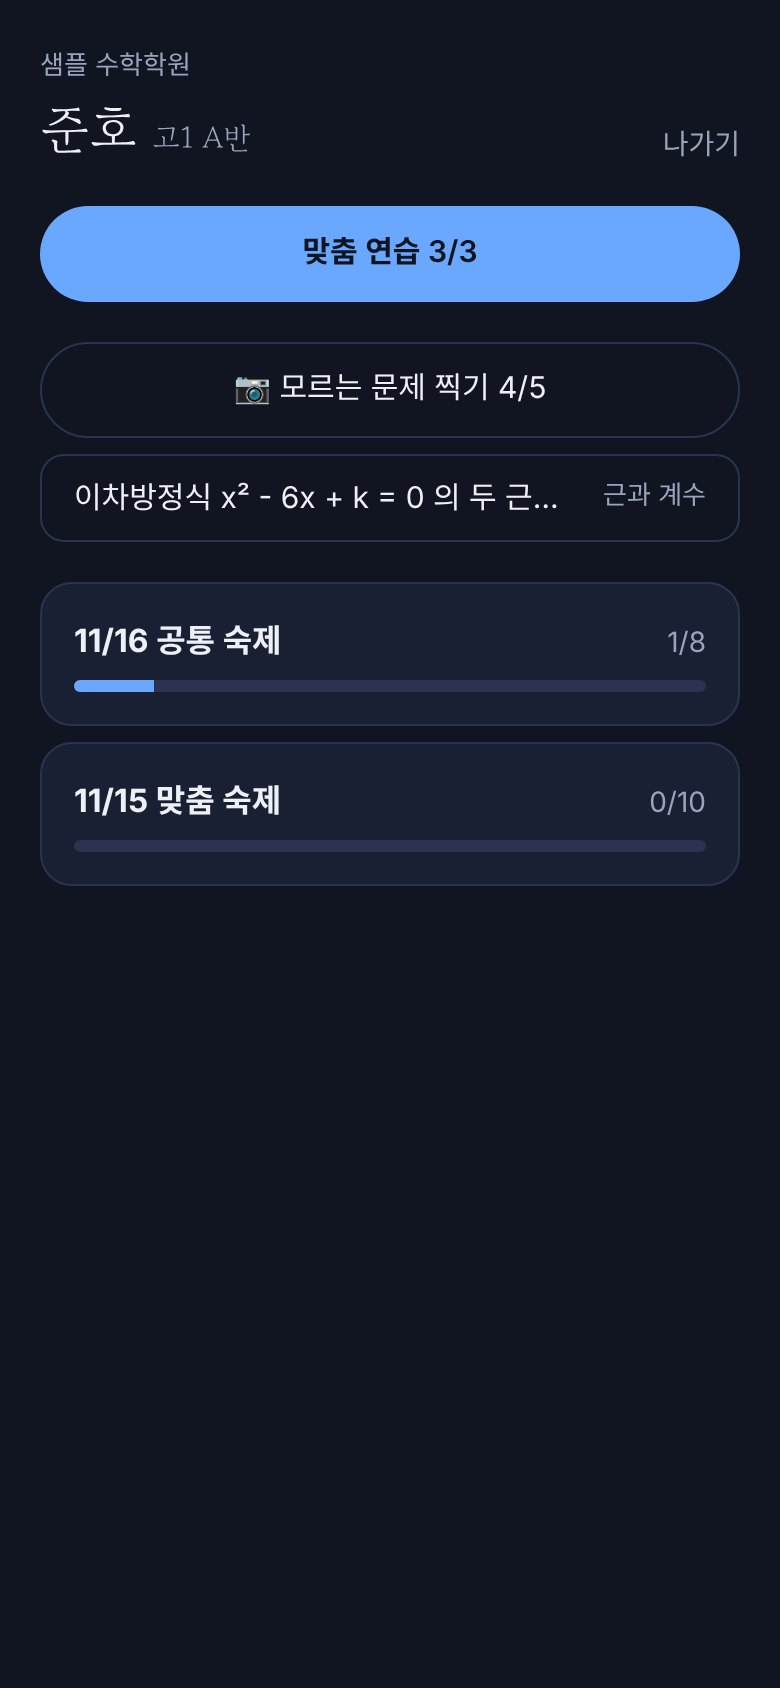
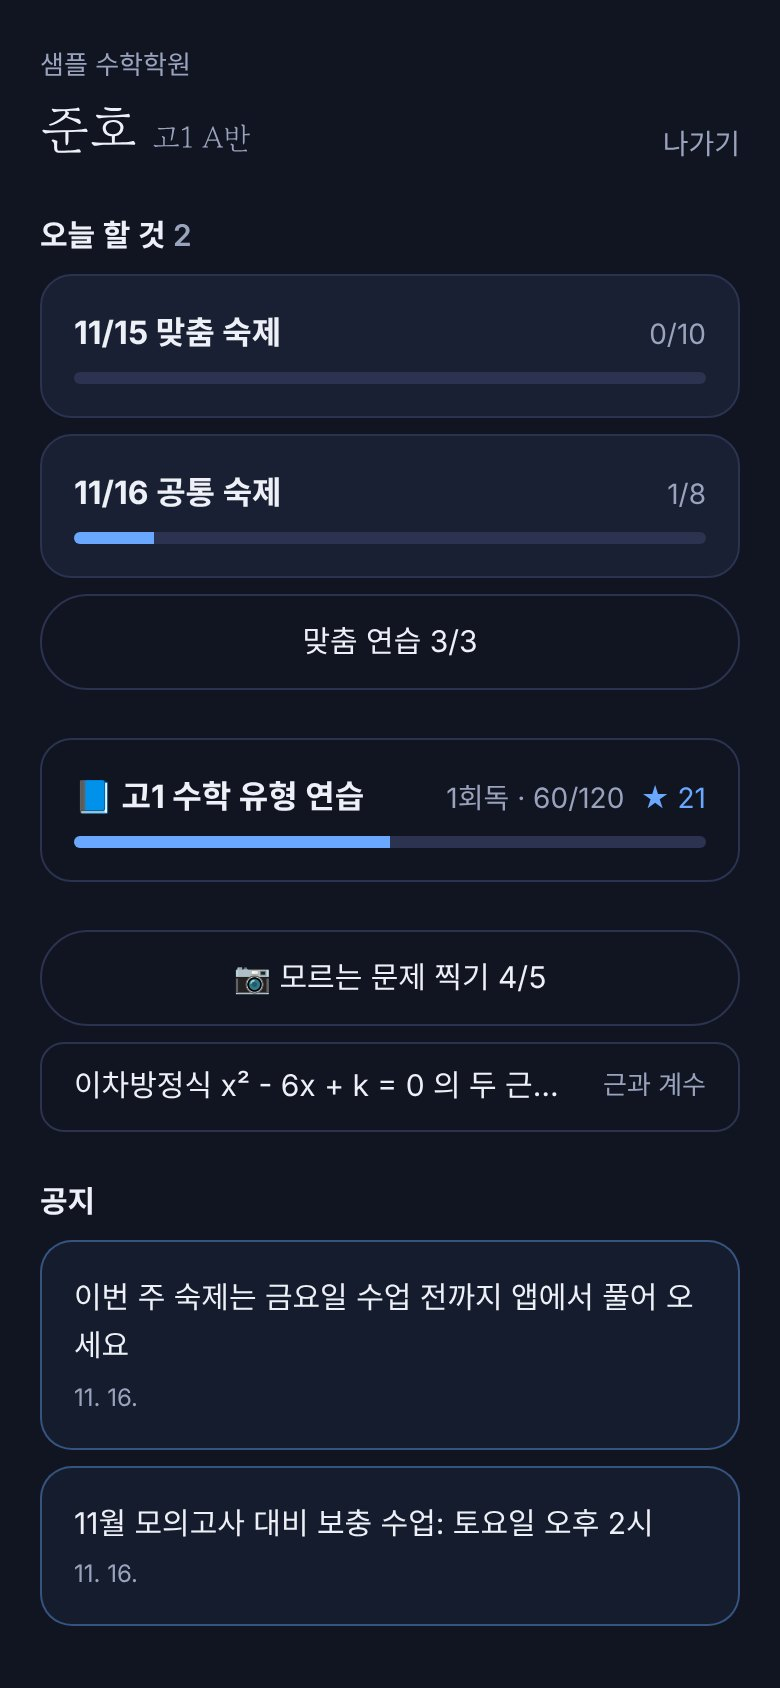
학원 소개: 학생 첫 화면 장면 새로 찍음(출결 번호·오늘 할 것·공지)
Claude-Session: https://claude.ai/code/session_01R73CvLEENwJndsexuEVBaY

diff --git a/demo/academy.html b/demo/academy.html
@@ -99,7 +99,7 @@
     </div>
     <div class="shots" aria-label="실제 화면(가상 데이터)">
       <img class="pc" src="/img/academy/diag-3.jpg" alt="원장님 PC: 학생 리포트와 개념별 숙달도">
-      <img class="mobile" src="/img/academy/solve-2.jpg" alt="학생 앱: 맞춤 숙제 풀이와 힌트">
+      <img class="mobile" src="/img/academy/home-1.jpg" alt="학생 앱 첫 화면: 출결 번호, 오늘 할 숙제, 교재, 질문, 공지">
       <span class="label l2">원장님 PC</span>
       <span class="label l1">학생 앱</span>
     </div>
@@ -146,7 +146,8 @@ const GROUPS = [
       ["sheet-4", "인쇄 · PDF", "A4, 학생마다 쪽 나눔, 정답지 포함 선택"],
     ]},
     { id: "solve", rec: true, plan: "라이트부터", title: "풀이 · 힌트 · 해설", line: "학생은 앱에서 풀고, 힌트를 본 만큼 숙달도에 덜 반영", wide: false, scenes: [
-      ["solve-1", "입장", "학원이 준 주소 + 6자리 코드. 내 시험지·반 공통 숙제"],
+      ["home-1", "수업 시작 — 학생 첫 화면", "출결 번호 → 오늘 할 숙제 → 교재 → 📷 질문 → 공지 순서"],
+      ["solve-1", "평소 첫 화면", "학원이 준 주소 + 6자리 코드. 안 끝낸 숙제부터, 끝낸 것은 접힘"],
       ["solve-2", "힌트 한 단계씩", "원장님이 공개 방식을 정함(바로·한 번 틀린 뒤·강사 허용)"],
       ["solve-3", "틀리면 한 번 더", "남은 기회 표시"],
       ["solve-4", "해설 단계", "다 푼 뒤 단계별로, 숫자는 눌러야 보임"],
